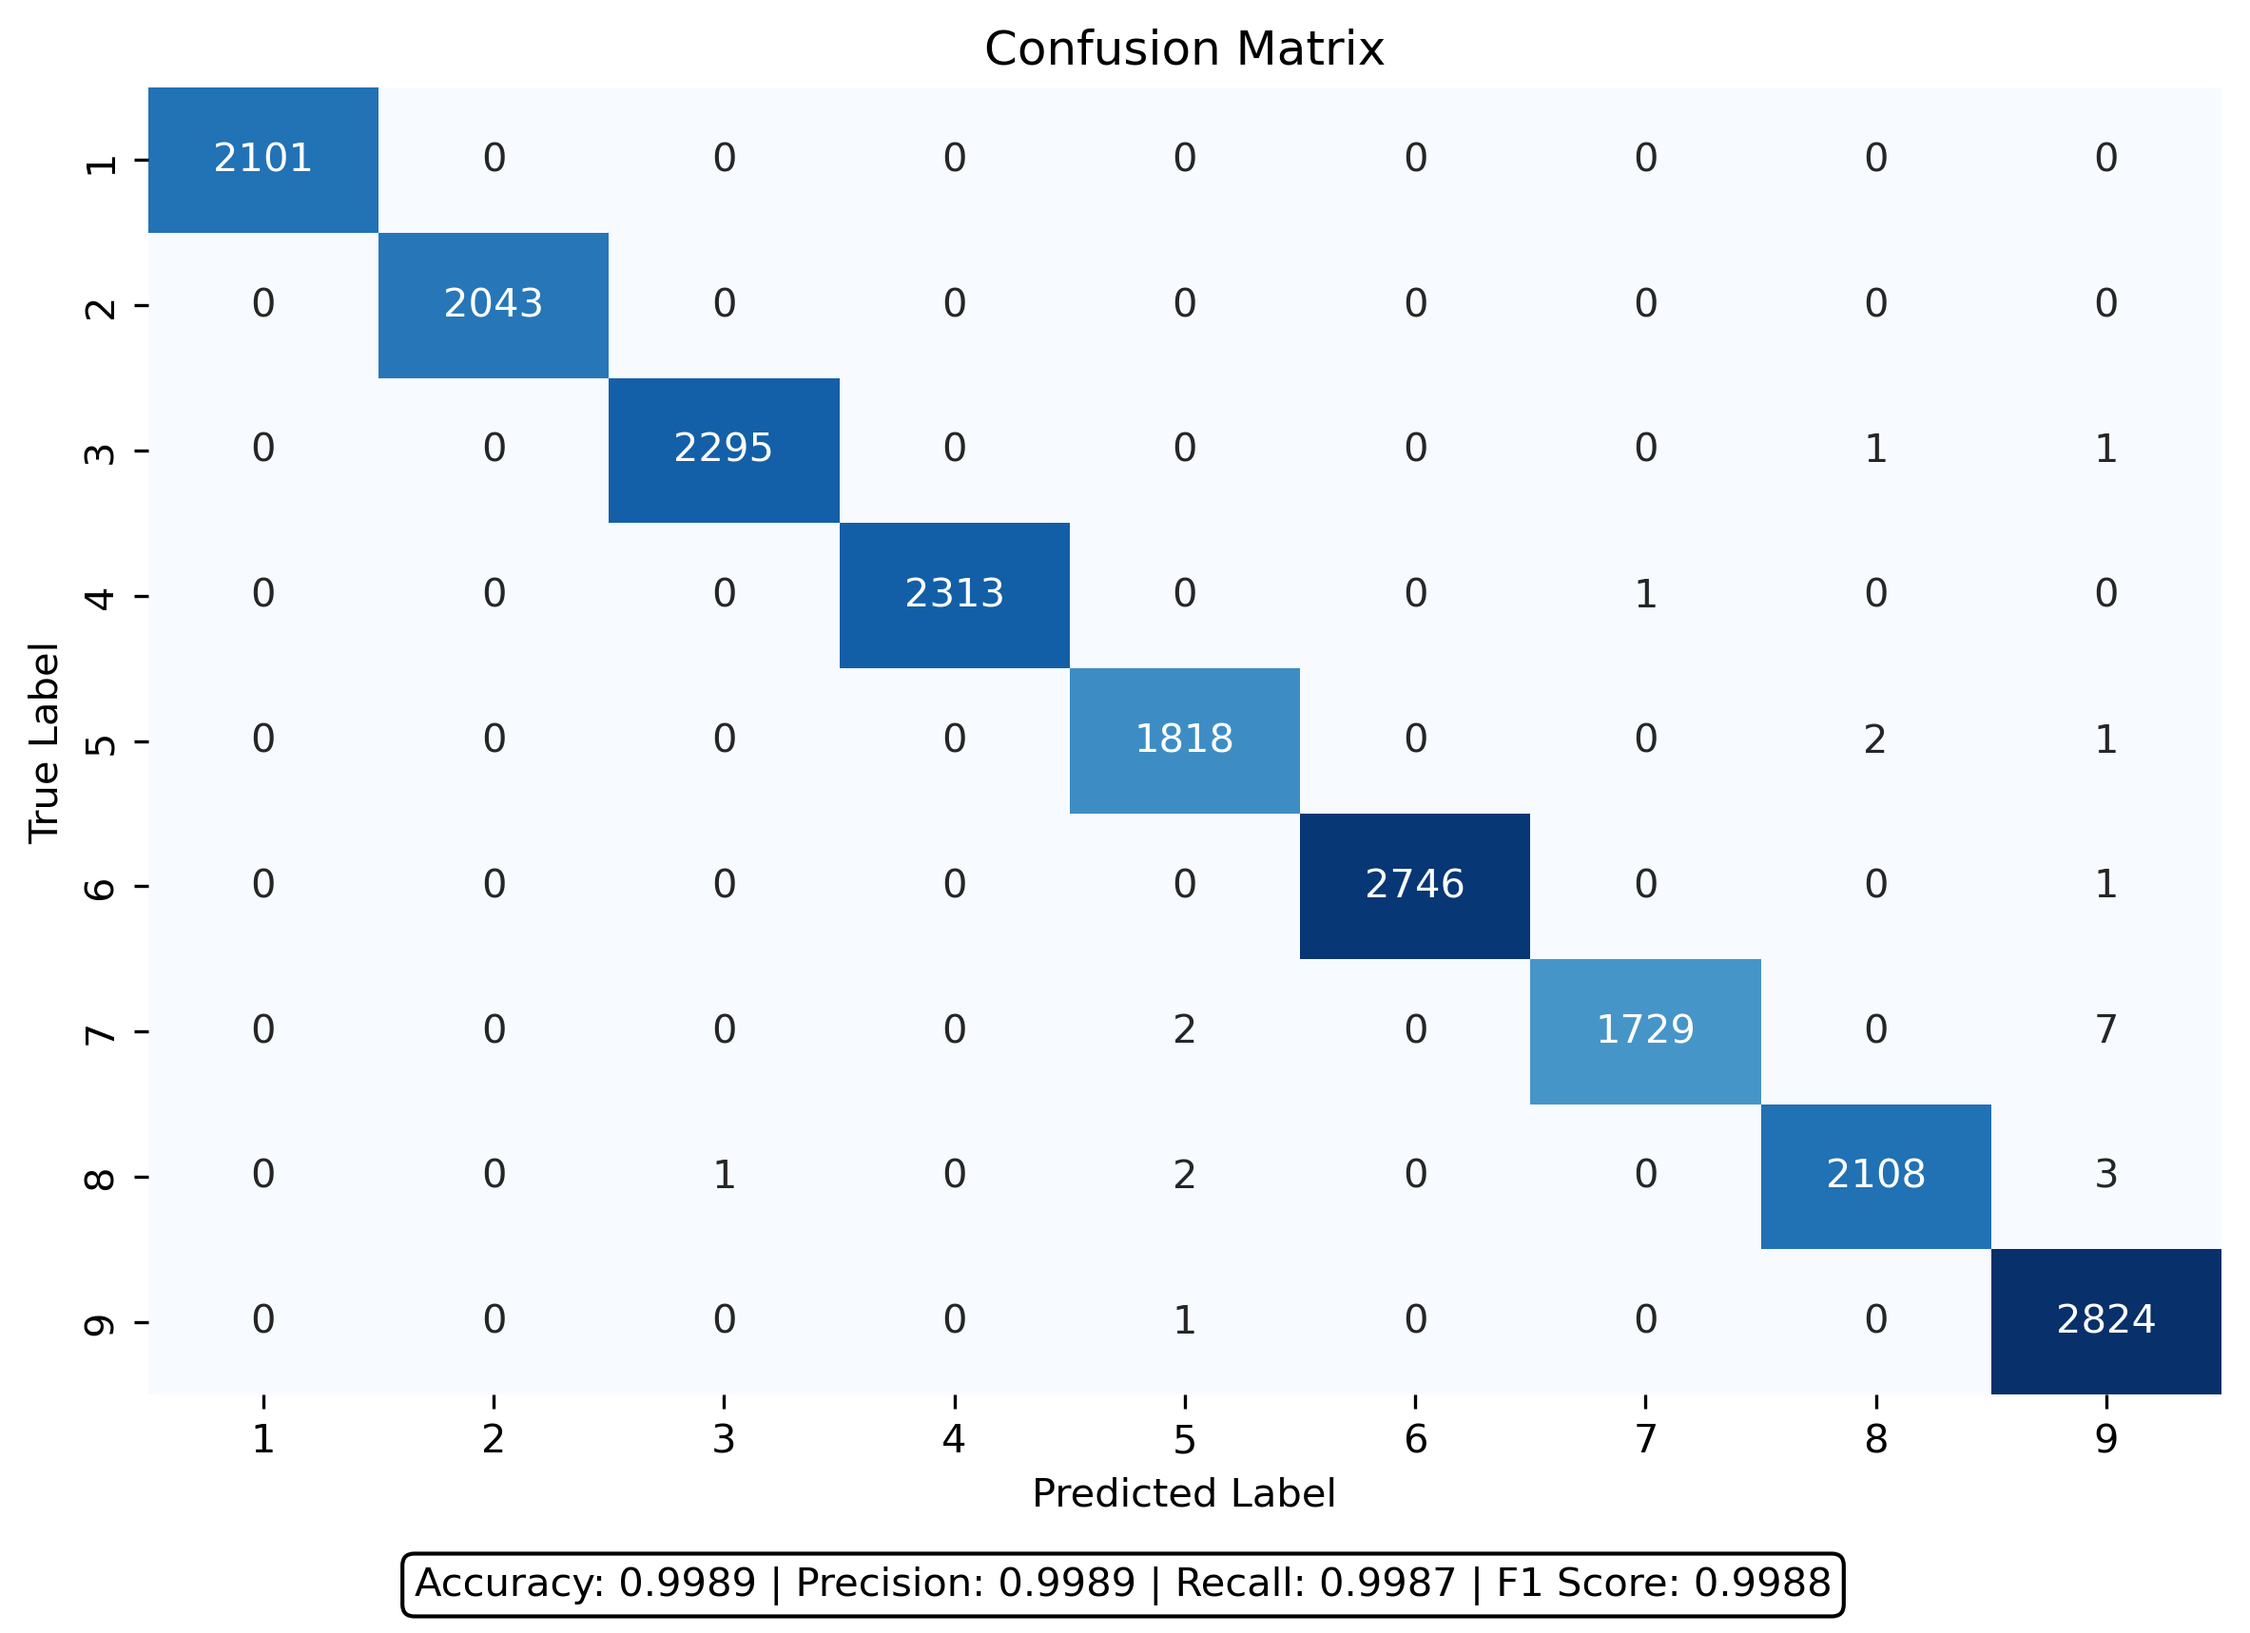
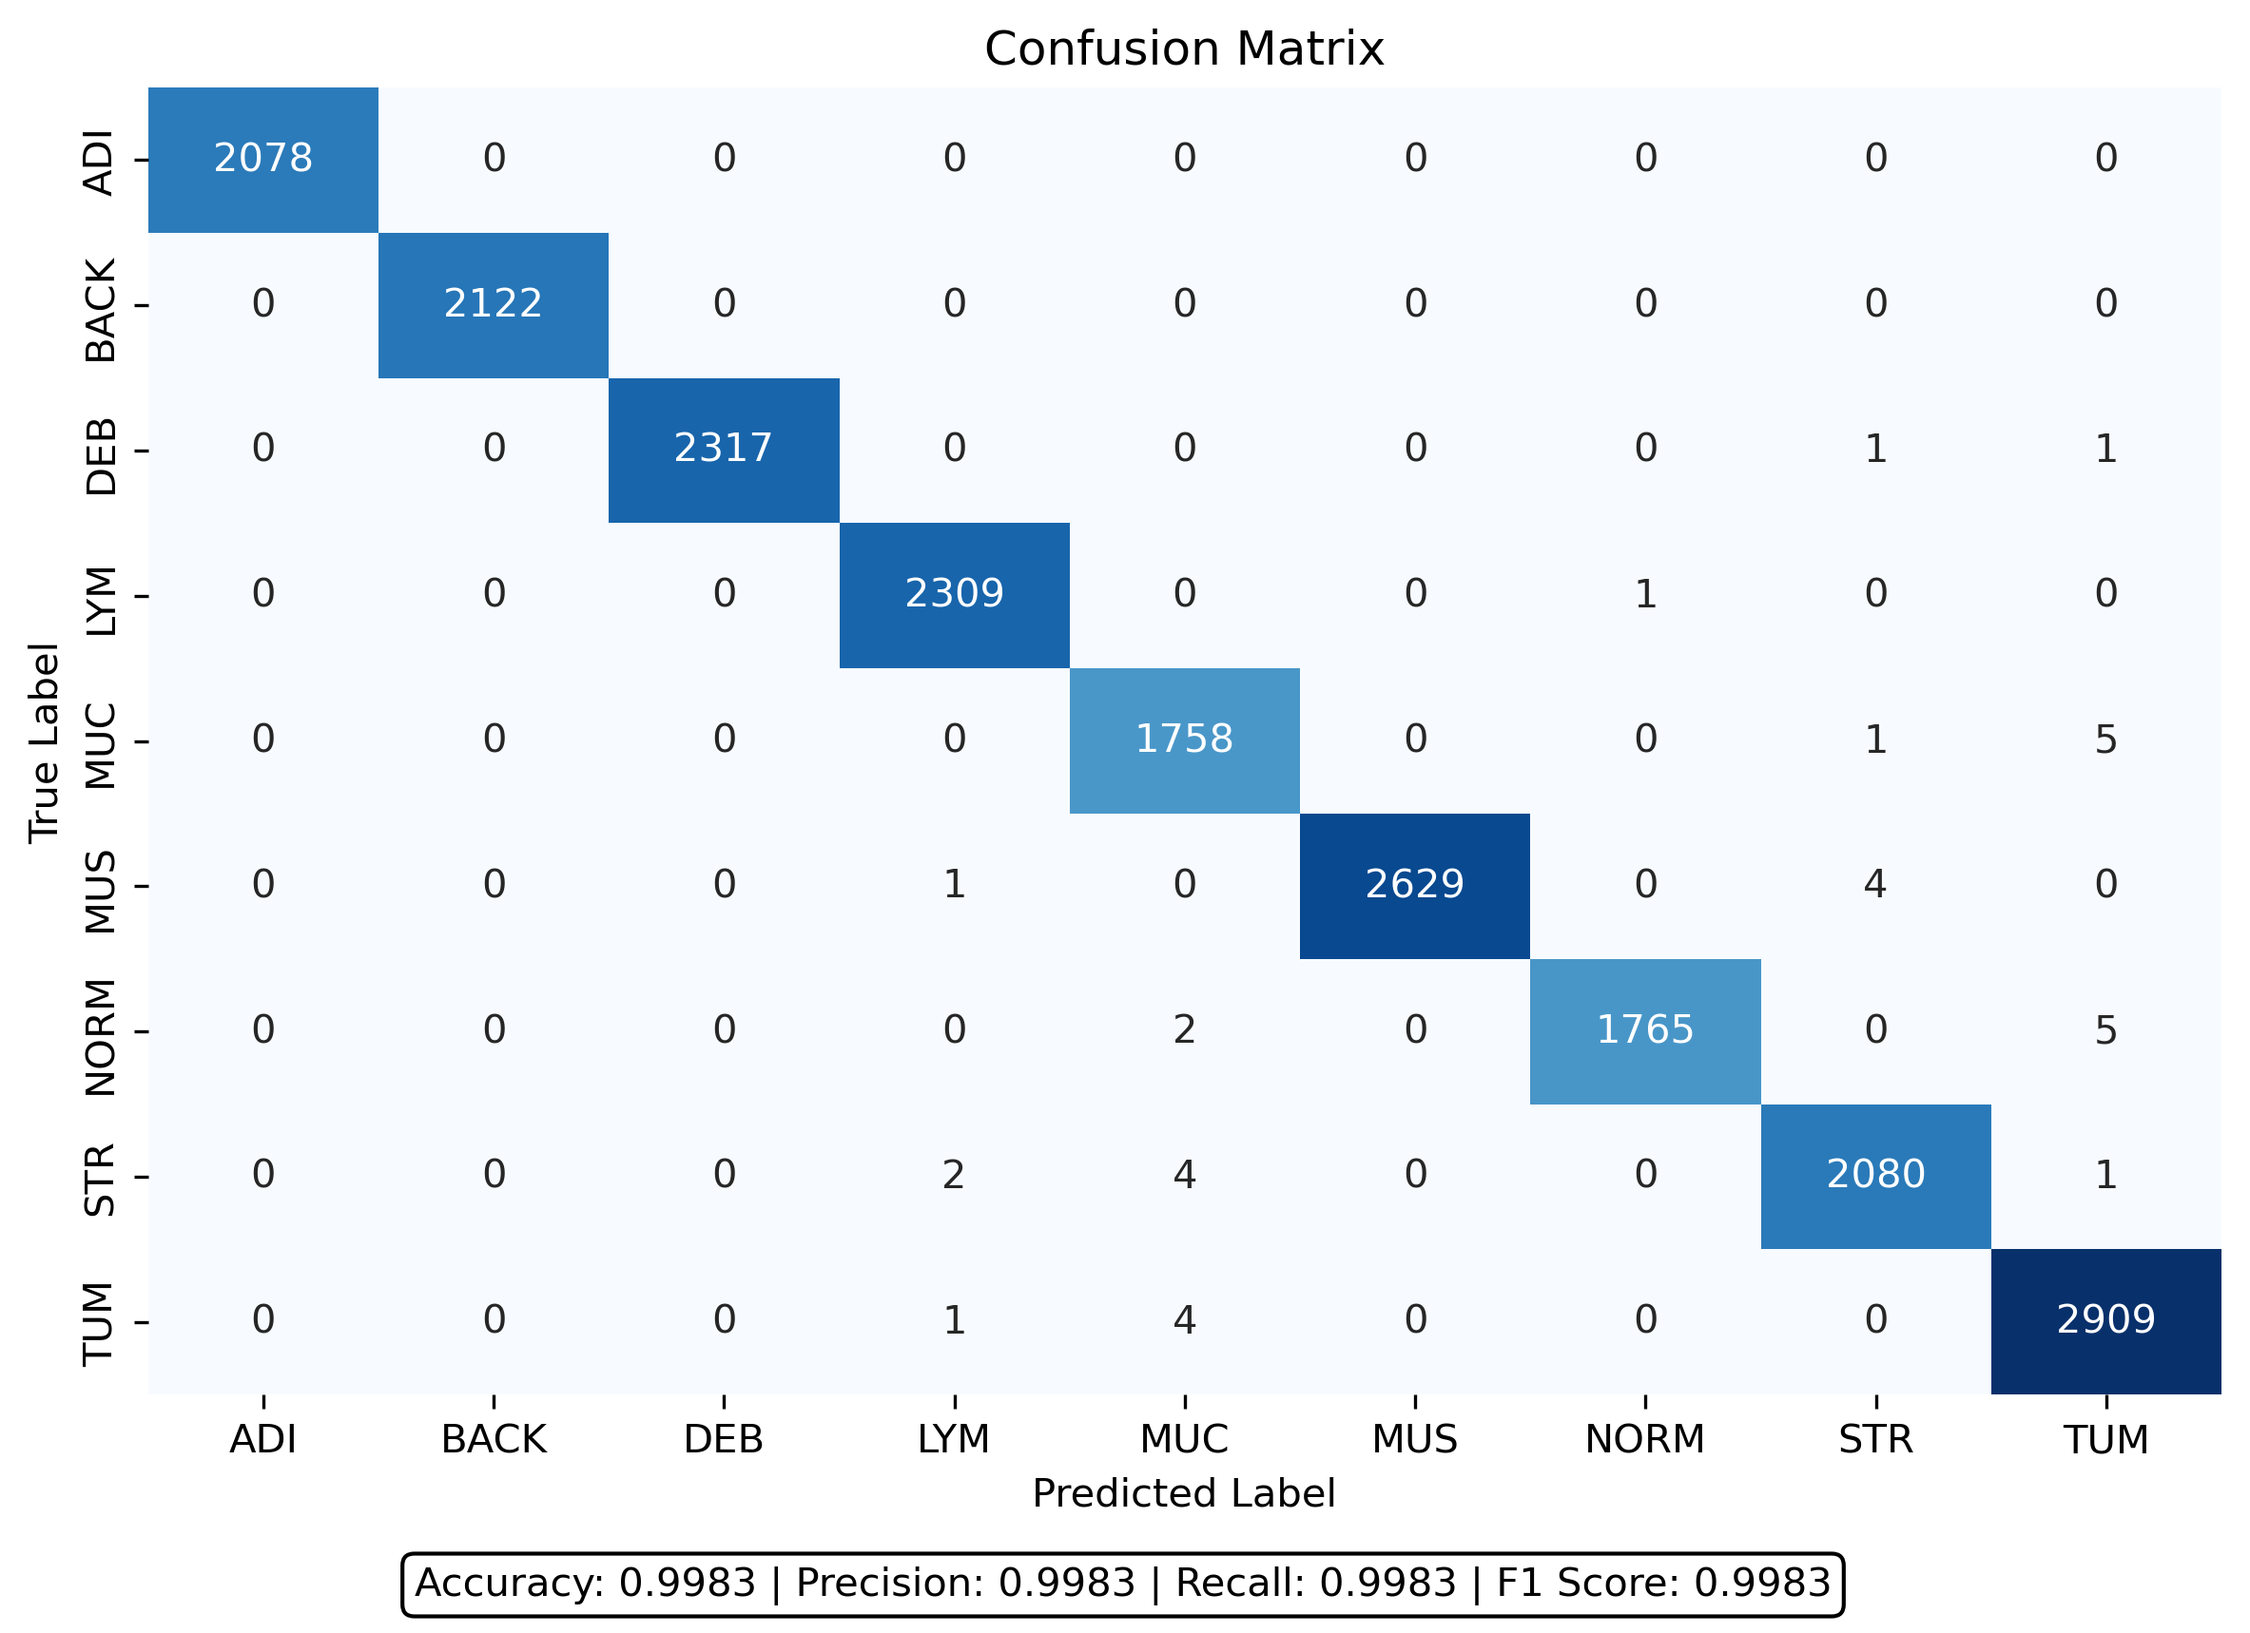
update figs

diff --git a/eval/vis_utils.py b/eval/vis_utils.py
@@ -130,11 +130,25 @@ def plot_confusion_matrix(
 
 
 def plot_multiclass_roc_curve(
-    true_labels: List[int], pred_probs: np.ndarray, num_classes: int
+    true_labels: List[int], pred_probs: np.ndarray, num_classes: int, class_names: Optional[List[str]] = None
 ) -> matplotlib.figure.Figure:
     """
     Plot ROC curve for multiclass (one-vs-rest) and macro-average ROC
+
+    Args:
+        true_labels: List of true class labels
+        pred_probs: Predicted probabilities for each class
+        num_classes: Number of classes
+        class_names: Optional list of class names for labels. If None, uses numeric labels.
     """
+    # Set tick labels based on class_names if provided, otherwise use numeric labels
+    if class_names is not None:
+        if len(class_names) != num_classes:
+            raise ValueError(f"Length of class_names ({len(class_names)}) must match num_classes ({num_classes})")
+        tick_labels = class_names
+    else:
+        tick_labels = [f"Class {i+1}" for i in range(num_classes)]  # Default: numeric labels starting from 1
+
     # Binarize the labels for one-vs-rest ROC, same as OHE in this case
     y_true_bin = np.array(
         label_binarize(true_labels, classes=np.arange(0, num_classes))
@@ -154,7 +168,7 @@ def plot_multiclass_roc_curve(
             fpr[i],
             tpr[i],
             linestyle="--",
-            label=f"Class {i+1} (AUC = {roc_auc[i]:.2f})",
+            label=f"{tick_labels[i]} (AUC = {roc_auc[i]:.2f})",
         )
 
     # Compute macro-average ROC curve and AUC
@@ -207,6 +221,6 @@ def visualize_model_performance(
         model, data_loader, device
     )
     cm_fig = plot_confusion_matrix(true_labels, pred_labels, num_classes, class_names)
-    roc_fig = plot_multiclass_roc_curve(true_labels, pred_probs, num_classes)
+    roc_fig = plot_multiclass_roc_curve(true_labels, pred_probs, num_classes, class_names)
 
     return cm_fig, roc_fig
